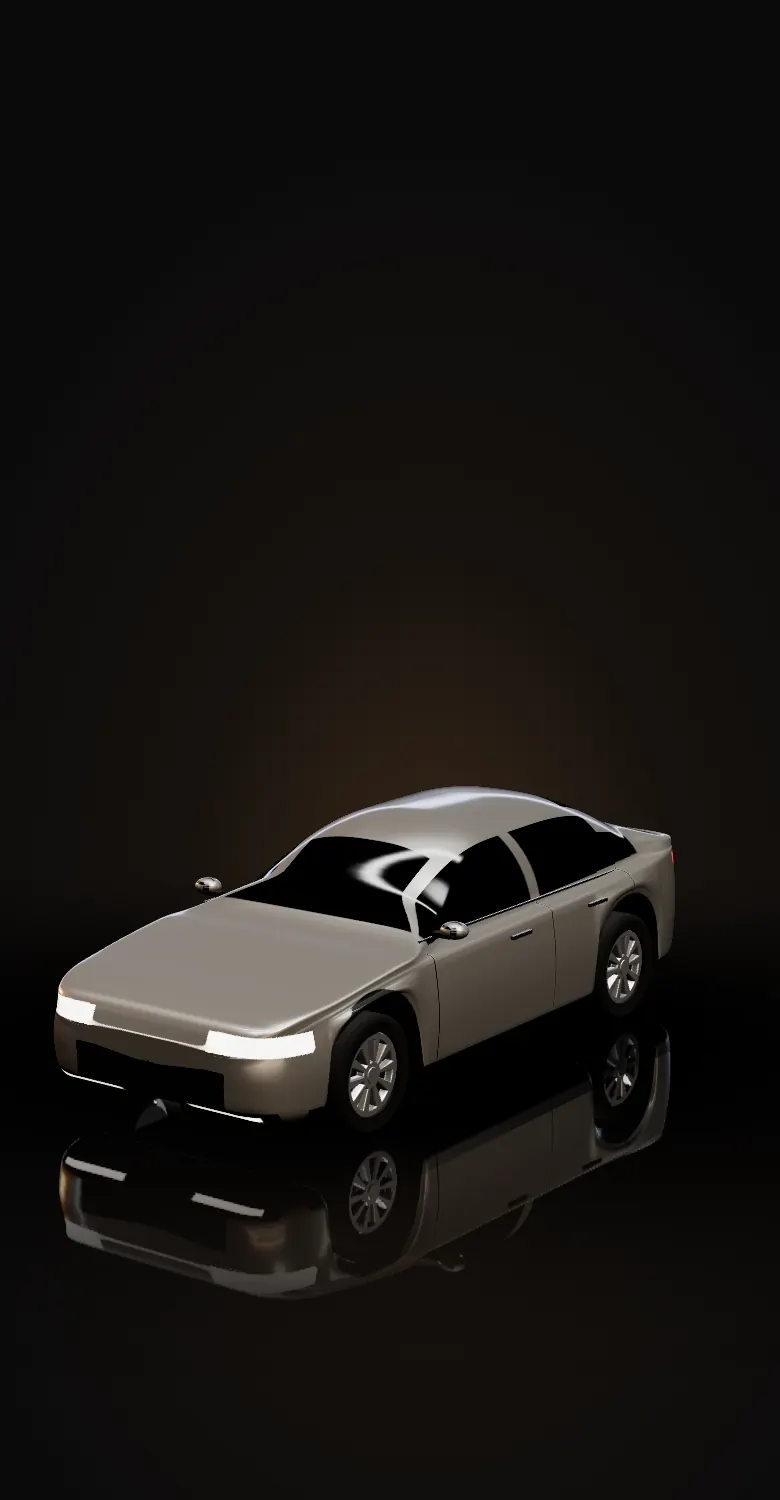
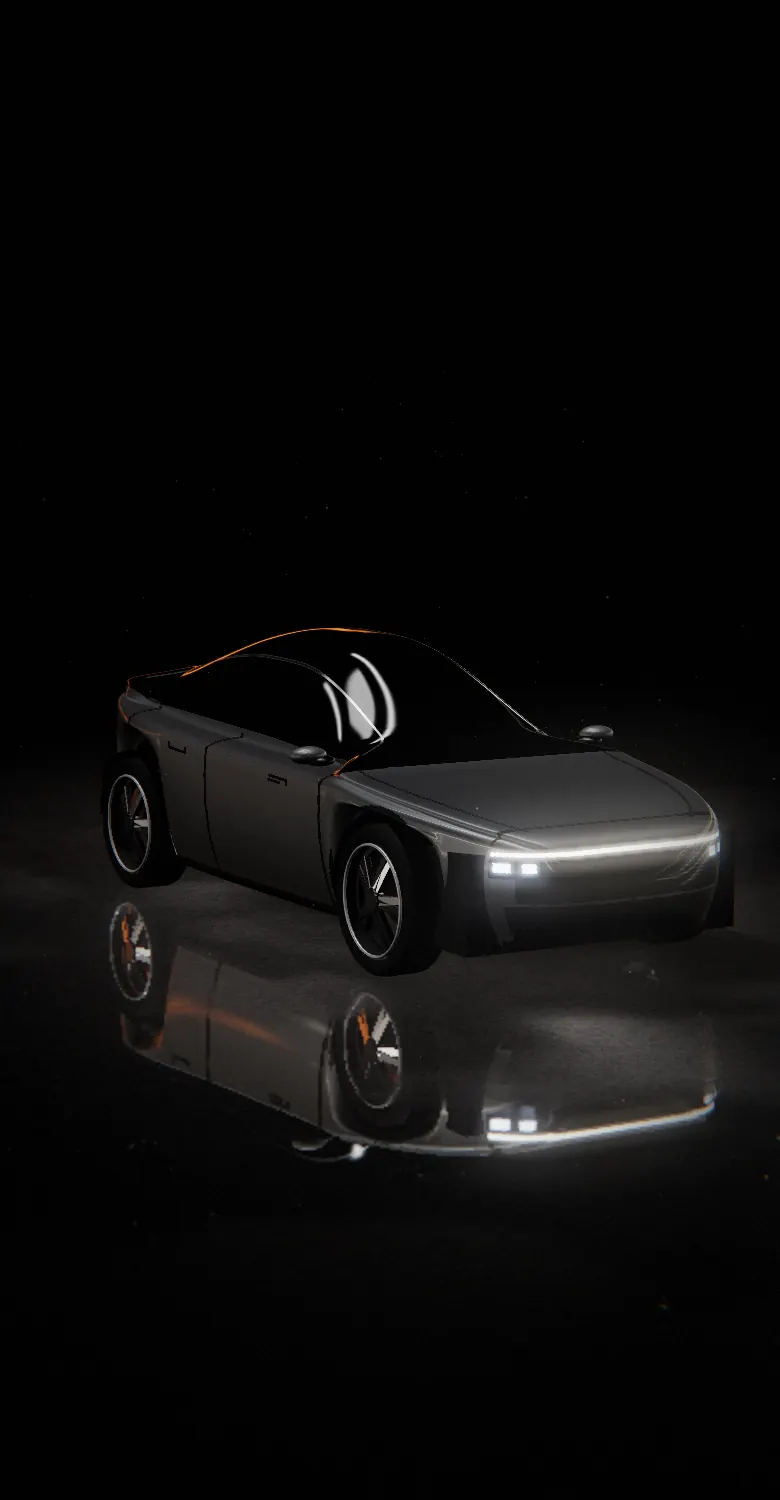
WIP Sunmotors v2: avanzamento [skip render]
Claude-Session: https://claude.ai/code/session_017pjDkCZJpUsipxbCDMi1im

Changed region(s): [[0.0615, 0.368, 1.0, 0.8893], [0.1231, 0.552, 0.1538, 0.5827]]

diff --git a/demo-sunmotors/assets/intro3d.js b/demo-sunmotors/assets/intro3d.js
@@ -41,16 +41,16 @@ function curve(pts) { // interpolazione cubica monotona
 }
 
 /* ---------- forma: crossover-coupé premium generico (metri; muso verso +x) ---------- */
-const L2 = 2.40, W2 = .952, XF = 1.47, XR = -1.45, TR = .372, WZ = .838, ARCH = TR + .058;
-const yTop = curve([[2.40, .56], [2.385, .65], [2.34, .735], [2.25, .79], [2.12, .825], [1.8, .885], [1.3, .945], [1.02, .985], [.86, 1.05], [.6, 1.215], [.32, 1.39], [.05, 1.515], [-.25, 1.572], [-.6, 1.578], [-.95, 1.54], [-1.3, 1.45], [-1.62, 1.335], [-1.88, 1.245], [-2.08, 1.2], [-2.24, 1.185], [-2.34, 1.15], [-2.40, 1.04]]);
-const yBelt = curve([[2.40, .54], [2.34, .69], [2.25, .755], [2.12, .79], [1.8, .85], [1.3, .915], [1.0, .965], [.5, 1.0], [0, 1.02], [-.6, 1.045], [-1.2, 1.075], [-1.7, 1.105], [-2.05, 1.13], [-2.24, 1.13], [-2.34, 1.09], [-2.40, 1.0]]);
-const yBase = curve([[2.40, .36], [2.31, .25], [2.12, .21], [1.0, .195], [0, .19], [-1.0, .195], [-2.0, .22], [-2.24, .28], [-2.40, .40]]);
+const L2 = 2.40, W2 = .952, XF = 1.47, XR = -1.45, TR = .388, WZ = .838, ARCH = TR + .058;
+const yTop = curve([[2.40, .56], [2.385, .65], [2.34, .735], [2.25, .79], [2.12, .825], [1.8, .885], [1.3, .945], [1.02, .985], [.86, 1.05], [.6, 1.215], [.32, 1.39], [.05, 1.515], [-.25, 1.572], [-.6, 1.578], [-.95, 1.54], [-1.3, 1.45], [-1.62, 1.335], [-1.88, 1.245], [-2.08, 1.2], [-2.24, 1.165], [-2.34, 1.1], [-2.40, .95]]);
+const yBelt = curve([[2.40, .54], [2.34, .69], [2.25, .755], [2.12, .79], [1.8, .85], [1.3, .915], [1.0, .955], [.5, .975], [0, .99], [-.6, 1.01], [-1.2, 1.04], [-1.7, 1.075], [-2.05, 1.1], [-2.24, 1.1], [-2.34, 1.03], [-2.40, .9]]);
+const yBase = curve([[2.40, .36], [2.31, .25], [2.12, .21], [1.0, .195], [0, .19], [-1.0, .195], [-2.0, .23], [-2.24, .31], [-2.40, .46]]);
 function yBottom(x) {
   let y = yBase(x);
   for (const cx of [XF, XR]) { const dx = x - cx; if (Math.abs(dx) < ARCH) y = Math.max(y, TR + Math.sqrt(ARCH * ARCH - dx * dx) * .985); }
   return y;
 }
-function plan(x) { const u = Math.abs(x) / L2, p = x > 0 ? 4.6 : 5.6; return Math.pow(Math.max(0, 1 - Math.pow(u, p)), 1 / p); }
+function plan(x) { const u = Math.abs(x) / L2, p = x > 0 ? 3.6 : 3.4; return Math.pow(Math.max(0, 1 - Math.pow(u, p)), 1 / p); }
 const halfW = x => W2 * plan(x);
 const cabin = x => sstep(1.03, .70, x) * sstep(-2.12, -1.62, x);
 const haunch = x => .028 * Math.exp(-Math.pow((x - XF) / .55, 2)) + .036 * Math.exp(-Math.pow((x - XR) / .6, 2));
@@ -60,19 +60,19 @@ const NB = 6, NC = 5, NS = 14, NL = 5, NU = 30;
 function section(x) {
   const yb = yBottom(x), ys = yBelt(x), yt = Math.max(yTop(x), ys + .012);
   const w = halfW(x), cab = cabin(x), hn = haunch(x) * plan(x);
-  const a = Math.max(.02, Math.min(w - .012, w - .045 - cab * (w - .80)));
-  const pts = [], rb = Math.max(.005, Math.min(.085, (ys - yb) * .35, w * .45)), tuck = Math.min(.035, w * .1);
+  const a = Math.max(.02, Math.min(w - .012, w - .045 - cab * (w - .77)));
+  const pts = [], rb = Math.max(.005, Math.min(.085, (ys - yb) * .35, w * .45)), tuck = Math.min(.06, w * .12);
   for (let i = 0; i < NB; i++) pts.push([i / NB * (w - rb - tuck), yb, 0, 0]);
   for (let i = 0; i < NC; i++) { const t = i / NC * Math.PI / 2; pts.push([w - tuck - rb + Math.sin(t) * rb, yb + rb - Math.cos(t) * rb, 0, 1]); }
   const sideTop = ys - .055;
   let zt = w;
   for (let i = 0; i < NS; i++) {
     const t = i / (NS - 1), y = yb + rb + t * Math.max(0, sideTop - yb - rb);
-    const z = w - tuck * Math.pow(1 - t, 2) + .012 * Math.sin(Math.PI * t) + hn * sstep(.3, .9, t);
+    const z = w - tuck * Math.pow(1 - t, 2) + .026 * Math.sin(Math.PI * Math.pow(t, .8)) + hn * sstep(.3, .9, t);
     pts.push([z, y, 0, 1]); zt = z;
   }
   for (let i = 1; i <= NL; i++) { const e = i / NL * Math.PI / 2; pts.push([a + (zt - a) * Math.cos(e), sideTop + .055 * Math.sin(e), 0, 1]); }
-  const b = yt - ys, n = 2.5 + 6 * (1 - cab), tumble = .2 * cab;
+  const b = yt - ys, n = 2.5 + 6 * (1 - cab), tumble = .26 * cab;
   for (let i = 1; i <= NU; i++) {
     const th = i / NU * Math.PI / 2, c = Math.pow(Math.cos(th), 2 / n), s = Math.pow(Math.sin(th), 2 / n);
     pts.push([a * c * (1 - tumble * s), ys + b * s, s, 2]);
@@ -105,9 +105,9 @@ function classify(x, y, z, s, zone) {
   }
   // posteriore
   if (x < -2.15) {
-    if (y > 1.036 && y < 1.058 && az < .93) return 'tail';
-    if (y > 1.0 && y < 1.08 && x < -2.27) return 'piano';
-    if (y < .44) { if (x < -2.3 && az < .6 && Math.abs(((z * 9) % 1 + 1) % 1 - .5) < .07) return 'piano'; return 'trim'; }
+    if (y > .975 && y < .997 && az < .93) return 'tail';
+    if (y > .94 && y < 1.015 && x < -2.27) return 'piano';
+    if (y < .5) { if (x < -2.3 && az < .6 && Math.abs(((z * 9) % 1 + 1) % 1 - .5) < .07) return 'piano'; return 'trim'; }
   }
   // sottoporta e passaruota
   if (y < yb0 + .07 && x < 2.14 && x > -2.12) return 'trim';
@@ -154,7 +154,7 @@ function bodyMaps(TW, TH) {
 /* ---------- uniform condivisi (luce che scorre, fari, vernice) ---------- */
 const U = {
   uBarX: { value: 5 }, uGateH: { value: 2.7 }, uGateW: { value: 2.3 }, uBarW: { value: .1 }, uBarI: { value: 0 }, uBarC: { value: new THREE.Color(1, .94, .86) },
-  uHead: { value: 0 }, uTail: { value: 0 }, uPaint: { value: new THREE.Color('#24272c') },
+  uHead: { value: 0 }, uTail: { value: 0 }, uPaint: { value: new THREE.Color('#8f9297') },
 };
 function hook(mat, paint) {
   if (paint) mat.defines = Object.assign(mat.defines || {}, { SUN_PAINT: '' });
@@ -231,28 +231,43 @@ function discTex() {
   for (let k = 0; k < 48; k++) { const a = k / 48 * Math.PI * 2, r = 74 + (k % 3) * 14; x.beginPath(); x.arc(128 + Math.cos(a) * r, 128 + Math.sin(a) * r, 3.4, 0, 7); x.fill(); }
   const t = new THREE.CanvasTexture(c); t.colorSpace = THREE.SRGBColorSpace; return t;
 }
+
+function merge(geos) { // unisce geometrie estruse mantenendo i due gruppi (fronte/retro e fianchi)
+  const pos = [], nor = [], idxF = [], idxS = [];
+  let off = 0;
+  for (const g0 of geos) {
+    const g = g0.index ? g0.toNonIndexed() : g0, pa = g.attributes.position;
+    for (let i = 0; i < pa.count; i++) pos.push(pa.getX(i), pa.getY(i), pa.getZ(i));
+    for (const gr of g.groups) for (let i = gr.start; i < gr.start + gr.count; i++) (gr.materialIndex ? idxS : idxF).push(off + i);
+    off += pa.count;
+  }
+  const out = new THREE.BufferGeometry();
+  out.setAttribute('position', new THREE.Float32BufferAttribute(pos, 3));
+  out.setIndex(idxF.concat(idxS)); out.addGroup(0, idxF.length, 0); out.addGroup(idxF.length, idxS.length, 1);
+  return out;
+}
 function makeWheelParts(lite) {
-  const r0 = .268, w = .128, seg = lite ? 48 : 72;
+  const r0 = .29, w = .13, seg = lite ? 48 : 72;
   // pneumatico
   const tp = [new THREE.Vector2(r0 + .012, -w + .012)];
   for (let i = 0; i <= 10; i++) { const t = i / 10 * Math.PI / 2; tp.push(new THREE.Vector2(TR - .045 + Math.sin(t) * .045, -w + .045 - Math.cos(t) * .045)); }
   for (let i = 0; i <= 10; i++) { const t = i / 10 * Math.PI / 2; tp.push(new THREE.Vector2(TR - .045 + Math.cos(t) * .045, w - .045 + Math.sin(t) * .045)); }
   tp.push(new THREE.Vector2(r0 + .03, w - .004)); tp.push(new THREE.Vector2(r0 + .012, w - .02));
   const tyreG = new THREE.LatheGeometry(tp, seg); tyreG.rotateX(Math.PI / 2);
-  // faccia del cerchio: 10 razze a coppie, concava, due toni (fronte diamantato, fianchi canna di fucile)
-  const sh = new THREE.Shape(); sh.absarc(0, 0, r0 - .006, 0, Math.PI * 2, false);
-  for (let k = 0; k < 5; k++) {
-    const base = k / 5 * Math.PI * 2;
-    for (const [a0, a1, ri] of [[base + .19, base + Math.PI * 2 / 5 - .19, .085], [base - .055, base + .055, .13]]) {
-      const h = new THREE.Path(), ro = r0 - .03;
-      if (a1 - a0 < .2) { h.moveTo(Math.cos(a0) * ri, Math.sin(a0) * ri); h.absarc(0, 0, ro - .01, a0 + .02, a1 - .02, false); h.lineTo(Math.cos(a1) * ri, Math.sin(a1) * ri); h.absarc(0, 0, ri, a1, a0, true); }
-      else { h.moveTo(Math.cos(a0) * ri, Math.sin(a0) * ri); h.lineTo(Math.cos(a0 + .05) * ro, Math.sin(a0 + .05) * ro); h.absarc(0, 0, ro, a0 + .05, a1 - .05, false); h.lineTo(Math.cos(a1) * ri, Math.sin(a1) * ri); h.absarc(0, 0, ri, a1, a0, true); }
-      sh.holes.push(h);
-    }
-  }
-  const faceG = new THREE.ExtrudeGeometry(sh, { depth: .022, bevelEnabled: true, bevelThickness: .008, bevelSize: .006, bevelSegments: 2, curveSegments: lite ? 40 : 64 });
+  // cerchio: 5 doppie razze rastremate e concave, fronte diamantato e fianchi scuri
+  const sp = new THREE.Shape(), si = .045, so = r0 - .022;
+  sp.moveTo(si, -.024); sp.lineTo(so, -.015); sp.lineTo(so, .015); sp.lineTo(si, .024); sp.lineTo(si, -.024);
+  const one = new THREE.ExtrudeGeometry(sp, { depth: .026, bevelEnabled: true, bevelThickness: .006, bevelSize: .005, bevelSegments: 2, steps: 1 });
+  const parts = [];
+  for (let k = 0; k < 5; k++) for (const o of [-.13, .13]) { const g = one.clone(); g.rotateZ(k / 5 * Math.PI * 2 + o); parts.push(g); }
+  const hubS = new THREE.Shape(); hubS.absarc(0, 0, .06, 0, Math.PI * 2, false);
+  const hubG = new THREE.ExtrudeGeometry(hubS, { depth: .03, bevelEnabled: true, bevelThickness: .008, bevelSize: .008, bevelSegments: 2, curveSegments: 40 });
+  parts.push(hubG);
+  const ringS = new THREE.Shape(); ringS.absarc(0, 0, r0 - .002, 0, Math.PI * 2, false); const hole = new THREE.Path(); hole.absarc(0, 0, r0 - .03, 0, Math.PI * 2, true); ringS.holes.push(hole);
+  parts.push(new THREE.ExtrudeGeometry(ringS, { depth: .02, bevelEnabled: false, curveSegments: seg }));
+  const faceG = merge(parts);
   const p = faceG.attributes.position;
-  for (let i = 0; i < p.count; i++) { const r = Math.hypot(p.getX(i), p.getY(i)); p.setZ(i, p.getZ(i) + .05 * (1 - sstep(.05, r0 - .02, r))); }
+  for (let i = 0; i < p.count; i++) { const r = Math.hypot(p.getX(i), p.getY(i)); p.setZ(i, p.getZ(i) + .06 * (1 - sstep(.07, r0 - .03, r))); }
   faceG.computeVertexNormals();
   const lipG = new THREE.TorusGeometry(r0 - .004, .009, 10, seg);
   const barrelG = new THREE.CylinderGeometry(r0 - .004, r0 - .004, w * 2 - .03, seg, 1, true); barrelG.rotateX(Math.PI / 2);
@@ -269,7 +284,7 @@ function makeWheelParts(lite) {
 function makeWheel(P, M, front) {
   const g = new THREE.Group();
   g.add(new THREE.Mesh(P.tyreG, M.tyre));
-  const face = new THREE.Mesh(P.faceG, [M.face, M.spokeSide]); face.position.z = P.w - .088; g.add(face);
+  const face = new THREE.Mesh(P.faceG, [M.face, M.spokeSide]); face.position.z = P.w - .1; g.add(face);
   const lip = new THREE.Mesh(P.lipG, M.face); lip.position.z = P.w - .012; g.add(lip);
   g.add(new THREE.Mesh(P.barrelG, M.barrel));
   const disc = new THREE.Mesh(P.discG, M.disc); disc.position.z = P.w - .17; g.add(disc);
@@ -405,9 +420,9 @@ function poses(portrait) {
   return {
     i0: { az: 34, el: 3, d: 6.6, t: [.4, .62, 0], fov: 30, ox: 0, oy: 0 },
     i1: { az: 22, el: 4.5, d: 4.7, t: [1.45, .64, .1], fov: 30, ox: 0, oy: 0 },
-    hero: { az: 38, el: 7, fit: 3.4, t: [0, .78, 0], fov: 24, ox: -.2, oy: .07 },
+    hero: { az: 38, el: 7, fit: 3.15, t: [0, .78, 0], fov: 24, ox: -.2, oy: .07 },
     s1: { az: 64, el: 3, d: 3.0, t: [1.47, .42, .95], fov: 28, ox: -.17, oy: 0 },
-    s2: { az: 90, el: 2, fit: 2.75, t: [0, .76, 0], fov: 20, ox: 0, oy: .1 },
+    s2: { az: 90, el: 2, fit: 3.5, t: [0, .76, 0], fov: 20, ox: -.19, oy: .1 },
     s3: { az: 148, el: 7, fit: 2.75, t: [-.25, .8, 0], fov: 24, ox: .16, oy: .02 },
     s4: { az: 318, el: 17, fit: 2.85, t: [0, .62, 0], fov: 24, ox: -.15, oy: .02 },
   };
@@ -501,13 +516,14 @@ export function start(opts = {}) {
     composer.setPixelRatio(dpr); composer.setSize(W, H);
     camera.aspect = W / H; portrait = camera.aspect < .9; P = poses(portrait);
     motes.material.uniforms.uPR.value = dpr * H / 900;
+    if (floor) floor.getRenderTarget().setSize(Math.round(W * dpr * (lite ? .5 : .75)), Math.round(H * dpr * (lite ? .5 : .75)));
   }
   addEventListener('resize', resize, { passive: true }); resize();
 
   function fitD(p) {
     if (p.d) return p.d;
     const v = THREE.MathUtils.degToRad(p.fov) / 2, hz = Math.atan(Math.tan(v) * camera.aspect);
-    const az = THREE.MathUtils.degToRad(p.az), span = Math.abs(Math.cos(az)) * L2 + Math.abs(Math.sin(az)) * W2 * 1.05;
+    const az = THREE.MathUtils.degToRad(p.az), span = Math.abs(Math.sin(az)) * L2 + Math.abs(Math.cos(az)) * W2 * 1.05;
     return Math.max((span + 1.0) / Math.tan(hz) * (p.fit / 2.75), 1.1 / Math.tan(v) * 1.3);
   }
   function applyPose(p, extraAz = 0, extraEl = 0) {
@@ -615,7 +631,7 @@ export function start(opts = {}) {
       else U.uBarI.value = 0;
     }
     U.uHead.value = st.hd * 3.2; U.uTail.value = st.hd * 3;
-    envMats.forEach(m => { m.envMapIntensity = lerp(.035, 1, st.env); });
+    envMats.forEach(m => { m.envMapIntensity = lerp(.035, 1.25, st.env); });
     FU.uEnv.value = st.env; FU.uBarX.value = U.uBarX.value; FU.uBarI.value = U.uBarI.value; FU.uHead.value = st.hd; FU.uTail.value = st.hd; FU.uTime.value = time;
     const mu = motes.material.uniforms; mu.uTime.value = time; mu.uEnv.value = st.env; mu.uHead.value = st.hd;
     gate.position.x = U.uBarX.value; gateM.color.setScalar(2.6 * U.uBarI.value); gate.visible = T < T_END && U.uBarI.value > .01;

diff --git a/demo-sunmotors/index.html b/demo-sunmotors/index.html
@@ -19,11 +19,10 @@
 (function(){var r=document.documentElement,q=location.search;r.classList.add('st-0');try{
 var m=matchMedia('(prefers-reduced-motion: reduce)').matches,c=navigator.connection||{},w=c.saveData||/(^|-)2g/.test(c.effectiveType||'')||(navigator.deviceMemory&&navigator.deviceMemory<2);
 var t=document.createElement('canvas'),g=t.getContext('webgl2')||t.getContext('webgl');if(g){var x=g.getExtension('WEBGL_lose_context');x&&x.loseContext()}
-if(g&&!m&&!w&&!/[?&]no3d/.test(q)){r.classList.add('sg');var s=false;try{s=sessionStorage.getItem('sm-intro')==='1'}catch(e){}
+if(g&&!m&&!w&&!/[?&]no3d/.test(q)){r.classList.add('sg');var l=document.createElement('link');l.rel='modulepreload';l.crossOrigin='';l.href='https://cdn.jsdelivr.net/npm/three@0.160.0/build/three.module.min.js';document.head.appendChild(l);var s=false;try{s=sessionStorage.getItem('sm-intro')==='1'}catch(e){}
 if(!s||/[?&](intro|t=)/.test(q)){r.classList.add('intro');if('scrollRestoration' in history)history.scrollRestoration='manual';scrollTo(0,0)}}}catch(e){}})();</script>
 <link rel="preload" as="image" href="/assets/hero-wide.webp" media="(min-width:761px)"><link rel="preload" as="image" href="/assets/hero-tall.webp" media="(max-width:760px)">
 <script type="importmap">{"imports":{"three":"https://cdn.jsdelivr.net/npm/three@0.160.0/build/three.module.min.js","three/addons/":"https://cdn.jsdelivr.net/npm/three@0.160.0/examples/jsm/"}}</script>
-<link rel="modulepreload" href="https://cdn.jsdelivr.net/npm/three@0.160.0/build/three.module.min.js" crossorigin>
 <script type="application/ld+json">{"@context":"https://schema.org","@type":"AutoDealer","@id":"https://prototipo-sunmotors.onrender.com/#sunmotors","name":"Sunmotors Srls","alternateName":"Sun Motors","url":"https://prototipo-sunmotors.onrender.com/","image":"https://prototipo-sunmotors.onrender.com/assets/og.jpg","logo":"https://prototipo-sunmotors.onrender.com/assets/icon-512.png","telephone":"+39 02 3056 0584","email":"sunmotors@libero.it","address":{"@type":"PostalAddress","streetAddress":"Viale Lombardia 65","postalCode":"20861","addressLocality":"Brugherio","addressRegion":"MB","addressCountry":"IT"},"openingHoursSpecification":[{"@type":"OpeningHoursSpecification","dayOfWeek":["Monday","Tuesday","Wednesday","Thursday","Friday","Saturday"],"opens":"09:00","closes":"12:30"},{"@type":"OpeningHoursSpecification","dayOfWeek":["Monday","Tuesday","Wednesday","Thursday","Friday","Saturday"],"opens":"14:30","closes":"19:30"}],"contactPoint":[{"@type":"ContactPoint","telephone":"+39 328 437 5807","contactType":"sales","availableLanguage":"Italian"}],"areaServed":[{"@type":"City","name":"Brugherio"},{"@type":"City","name":"Monza"},{"@type":"City","name":"Cologno Monzese"},{"@type":"City","name":"Sesto San Giovanni"},{"@type":"City","name":"Cernusco sul Naviglio"},{"@type":"City","name":"Carugate"},{"@type":"City","name":"Agrate Brianza"}],"hasMap":"https://www.google.com/maps/search/?api=1&query=Sunmotors+Viale+Lombardia+65+20861+Brugherio+MB","priceRange":"€€","sameAs":["https://www.autoscout24.it/concessionari/sunmotors-srls","https://www.quattroruote.it/auto-usate/concessionario/sunmotors_srls-93369383","https://www.sunmotors.it"]}</script>
 </head>
 <body class="home">
@@ -60,10 +59,10 @@ if(!s||/[?&](intro|t=)/.test(q)){r.classList.add('intro');if('scrollRestoration'
       <p class="lead hero-x">City car, berline, station wagon e SUV usati con garanzia fino a 60 mesi, finanziamento anche senza anticipo e permuta.</p>
       <div class="ctas hero-x"><a class="btn pri" href="#prenota"><svg viewBox="0 0 24 24" fill="none" stroke="currentColor" stroke-width="1.7" stroke-linecap="round" stroke-linejoin="round" aria-hidden="true"><rect x="3" y="4.5" width="18" height="16" rx="2"/><path d="M3 9.5h18M8 2.5v4M16 2.5v4"/></svg>Prenota la visita</a><a class="btn ghost" href="/auto-usate/">Vedi le auto <svg viewBox="0 0 24 24" fill="none" stroke="currentColor" stroke-width="1.7" stroke-linecap="round" stroke-linejoin="round" aria-hidden="true"><path d="M5 12h14M13 6l6 6-6 6"/></svg></a></div>
       <div class="paint hero-x" role="group" aria-label="Colore dell'auto"><span>Colore</span>
-        <button type="button" data-c="#24272c" aria-pressed="true" style="background:#2b2e33" aria-label="Grafite"></button>
+        <button type="button" data-c="#8f9297" aria-pressed="true" style="background:#9a9da2" aria-label="Titanio"></button>
+        <button type="button" data-c="#24272c" aria-pressed="false" style="background:#2b2e33" aria-label="Grafite"></button>
         <button type="button" data-c="#7a1f0c" aria-pressed="false" style="background:#8a2c14" aria-label="Rosso tramonto"></button>
         <button type="button" data-c="#0f2440" aria-pressed="false" style="background:#1d3550" aria-label="Blu notte"></button>
-        <button type="button" data-c="#a9aaa8" aria-pressed="false" style="background:#b8b8b4" aria-label="Argento"></button>
         <button type="button" data-c="#d9d7d2" aria-pressed="false" style="background:#ecebe7" aria-label="Bianco"></button>
       </div>
     </div></div>
@@ -87,7 +86,7 @@ if(!s||/[?&](intro|t=)/.test(q)){r.classList.add('intro');if('scrollRestoration'
     <div class="bk-h"><span class="bk-n">1</span><div><h3>Scegli il giorno</h3><p>Dal lunedì al sabato · domenica e festivi chiuso</p></div></div>
     <div class="cal-h"><button type="button" id="cal-p" aria-label="Mese precedente"><svg viewBox="0 0 24 24" fill="none" stroke="currentColor" stroke-width="1.7" stroke-linecap="round" stroke-linejoin="round" aria-hidden="true" class=flip><path d="M5 12h14M13 6l6 6-6 6"/></svg></button><b id="cal-m" aria-live="polite"></b><button type="button" id="cal-n" aria-label="Mese successivo"><svg viewBox="0 0 24 24" fill="none" stroke="currentColor" stroke-width="1.7" stroke-linecap="round" stroke-linejoin="round" aria-hidden="true"><path d="M5 12h14M13 6l6 6-6 6"/></svg></button></div>
     <div class="cal-g" id="cal-g"><span class="dw">Lun</span><span class="dw">Mar</span><span class="dw">Mer</span><span class="dw">Gio</span><span class="dw">Ven</span><span class="dw">Sab</span><span class="dw dom">Dom</span></div>
-    <p class="legend"><span><i class="lg ok"></i>Disponibile</span><span><i class="lg sel"></i>Scelto</span><span><i class="lg no"></i>Chiuso o passato</span></p>
+    <p class="legend"><span><i class="lg"></i>Disponibile</span><span><i class="lg lgs"></i>Scelto</span><span><i class="lg lgn"></i>Chiuso o passato</span></p>
   </div>
   <div class="bk-side">
     <div class="bk-card rv">

diff --git a/demo-sunmotors/assets/site.css b/demo-sunmotors/assets/site.css
@@ -315,8 +315,8 @@ svg.flip{transform:scaleX(-1)}
 .legend{display:flex;gap:16px;flex-wrap:wrap;margin-top:18px;font-size:12.5px;color:var(--mut)}
 .legend span{display:inline-flex;align-items:center;gap:7px}
 .lg{display:inline-block;flex:none;width:13px;height:13px;border-radius:4px;border:1px solid var(--line2);background:rgba(255,255,255,.03)}
-.lg.sel{background:#f4a340;border-color:transparent}
-.lg.no{border-color:transparent;background:none;box-shadow:inset 0 0 0 1px rgba(255,255,255,.06)}
+.lg.lgs{background:#f4a340;border-color:transparent}
+.lg.lgn{border-color:transparent;background:none;box-shadow:inset 0 0 0 1px rgba(255,255,255,.06)}
 .slots{display:grid;grid-template-columns:repeat(auto-fill,minmax(76px,1fr));gap:8px}
 .slots h4{grid-column:1/-1;font:500 11px/1 var(--fm);letter-spacing:.14em;text-transform:uppercase;color:var(--mut);margin-top:8px}
 .slots h4:first-child{margin-top:0}
@@ -450,7 +450,7 @@ footer.ft{border-top:1px solid var(--line);padding:56px 0 30px;background:linear
   .hero-v{min-height:560px}
   .hero-c{top:calc(var(--hdr) + 10px);bottom:calc(var(--banner) + 18px)}
   .hero-c>.wrap{height:100%;display:flex;flex-direction:column}
-  .ttl .w1{font-size:clamp(46px,14.2vw,74px)}
+  .ttl .w1{font-size:clamp(40px,12.2vw,70px)}
   .ttl .rule{margin:12px 0 10px}
   .ttl .w2{font-size:clamp(20px,6vw,28px)}
   .hero-c .lead{margin-top:auto;font-size:15px;max-width:none}
@@ -472,6 +472,7 @@ footer.ft{border-top:1px solid var(--line);padding:56px 0 30px;background:linear
   .cal-g button small{display:none}
   .cal-g button.today:not([aria-pressed="true"]):after{content:"";position:absolute;bottom:6px;left:50%;width:4px;height:4px;margin-left:-2px;border-radius:50%;background:var(--ok)}
   .mot small{display:none}
+  .home.sg:not(.past-show) .fab{opacity:0;pointer-events:none}
   .mot>span{min-height:52px}
   .stats{grid-template-columns:1fr 1fr}
   .stat,.stat+.stat{padding:20px 14px 16px 0;border-left:0}
@@ -483,3 +484,4 @@ footer.ft{border-top:1px solid var(--line);padding:56px 0 30px;background:linear
   .stat>span{font-size:13px}
 }
 @media (prefers-reduced-motion:reduce){.cue i,.btn.wa.xl.ready{animation:none}}
+@media (min-width:1081px){.bk-cal{position:sticky;top:calc(var(--hdr) + 16px)}}

diff --git a/demo-sunmotors/prenota/index.html b/demo-sunmotors/prenota/index.html
@@ -45,7 +45,7 @@
     <div class="bk-h"><span class="bk-n">1</span><div><h3>Scegli il giorno</h3><p>Dal lunedì al sabato · domenica e festivi chiuso</p></div></div>
     <div class="cal-h"><button type="button" id="cal-p" aria-label="Mese precedente"><svg viewBox="0 0 24 24" fill="none" stroke="currentColor" stroke-width="1.7" stroke-linecap="round" stroke-linejoin="round" aria-hidden="true" class=flip><path d="M5 12h14M13 6l6 6-6 6"/></svg></button><b id="cal-m" aria-live="polite"></b><button type="button" id="cal-n" aria-label="Mese successivo"><svg viewBox="0 0 24 24" fill="none" stroke="currentColor" stroke-width="1.7" stroke-linecap="round" stroke-linejoin="round" aria-hidden="true"><path d="M5 12h14M13 6l6 6-6 6"/></svg></button></div>
     <div class="cal-g" id="cal-g"><span class="dw">Lun</span><span class="dw">Mar</span><span class="dw">Mer</span><span class="dw">Gio</span><span class="dw">Ven</span><span class="dw">Sab</span><span class="dw dom">Dom</span></div>
-    <p class="legend"><span><i class="lg ok"></i>Disponibile</span><span><i class="lg sel"></i>Scelto</span><span><i class="lg no"></i>Chiuso o passato</span></p>
+    <p class="legend"><span><i class="lg"></i>Disponibile</span><span><i class="lg lgs"></i>Scelto</span><span><i class="lg lgn"></i>Chiuso o passato</span></p>
   </div>
   <div class="bk-side">
     <div class="bk-card rv">

diff --git a/demo-sunmotors/assets/site.js b/demo-sunmotors/assets/site.js
@@ -7,7 +7,7 @@
   bs.forEach(function(b){b.addEventListener('click',function(){set(b.getAttribute('data-menu')==='open')})});
   addEventListener('keydown',function(e){if(e.key==='Escape'&&m&&!m.hidden)set(false)});
   /* header in home */
-  if(d.body.classList.contains('home')){var f=function(){d.body.classList.toggle('scrolled',scrollY>40)};addEventListener('scroll',f,{passive:true});f()}
+  if(d.body.classList.contains('home')){var sh=d.getElementById('show'),f=function(){d.body.classList.toggle('scrolled',scrollY>40);if(sh)r.classList.toggle('past-show',sh.getBoundingClientRect().bottom<innerHeight*.6)};addEventListener('scroll',f,{passive:true});f()}
   /* comparse */
   var els=[].slice.call(d.querySelectorAll('.rv'));
   if('IntersectionObserver' in window){var io=new IntersectionObserver(function(es){es.forEach(function(e){if(e.isIntersecting){e.target.classList.add('in');io.unobserve(e.target)}})},{rootMargin:'0px 0px -8% 0px'});els.forEach(function(e){io.observe(e)})}
